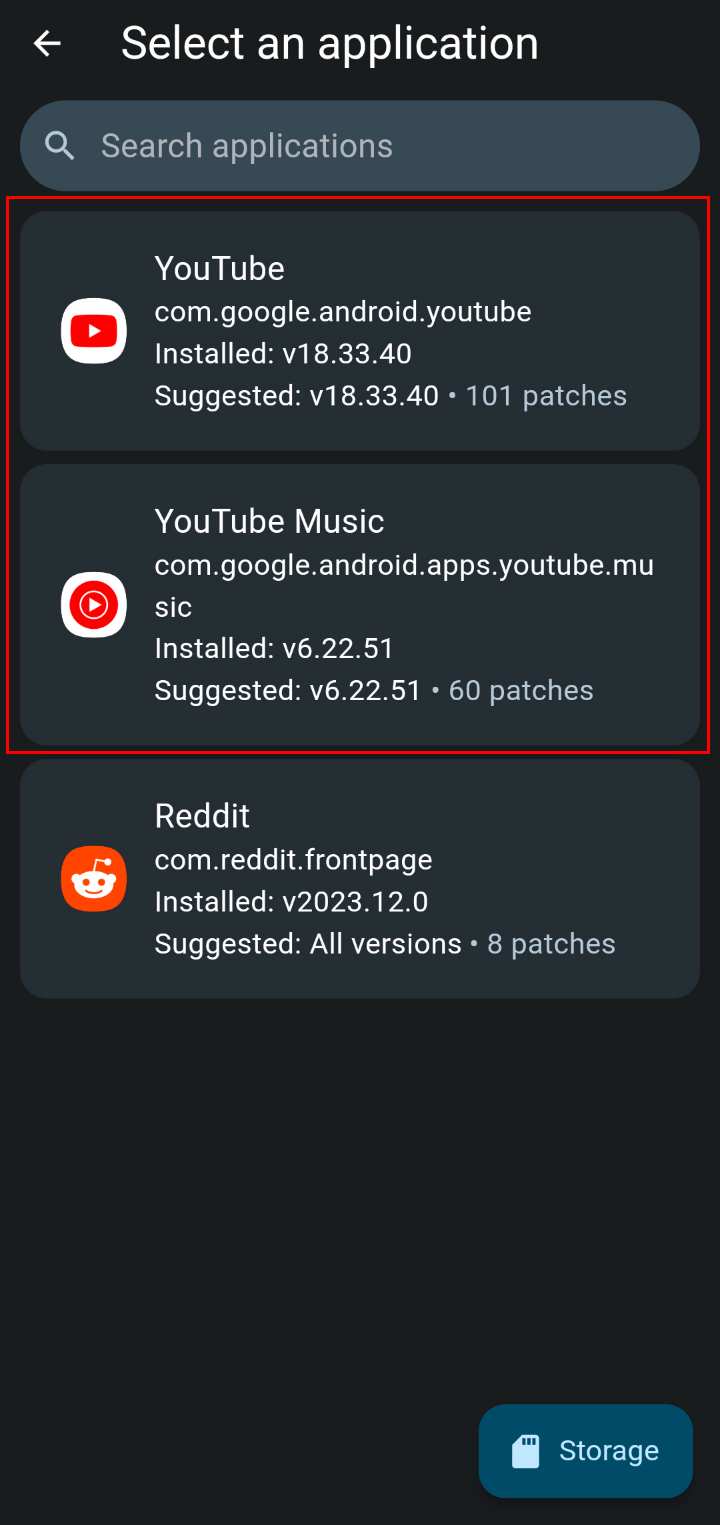
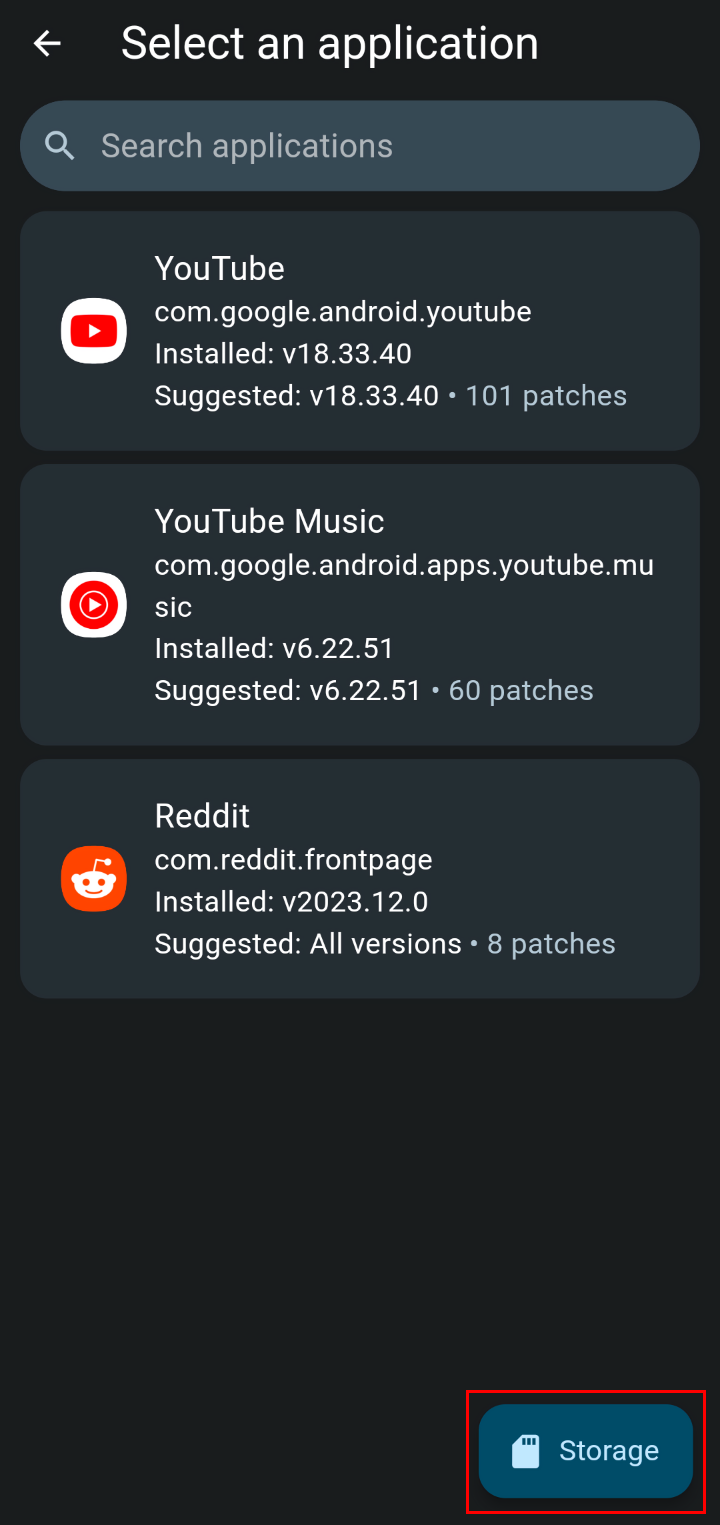
Update RVX Manager docs
(I also reordered the images)

diff --git a/docs/rvx-manager.md b/docs/rvx-manager.md
@@ -1,102 +1,44 @@
-Information
+Requirements
 ==
-### 1. This document is a guide on how to build ReVanced Extended apps using the RVX Manager.
 
-
-### 2. To use the RVX Manager, the following conditions must be met:
 - Your device must use the arm64-v8a architecture.
-- Your device must be running Android 8.0+.
+- Your device must be running Android 8+.
 
 
-
-Common
+Using RVX Manager
 ==
-### 0. If you are preparing to install in **ROOT environment**, follow the method below
-- remove all YouTube / YT Music related modules
-- remove directories: `/data/adb/service.d`, `/data/adb/post-fs-data.d`, `/data/adb/revanced`
-- reboot device
 
-
-### 1. Check the [README.md](https://github.com/inotia00/revanced-patches/tree/revanced-extended#-json-format) of revanced-patches for supported versions
-
-![support_version_youtube](https://github.com/inotia00/revanced-documentation/blob/main/images/compatible_packages_youtube.png)
-
-→ YouTube
-
-![support_version_music](https://github.com/inotia00/revanced-documentation/blob/main/images/compatible_packages_youtube_music.png)
-
-→ YouTube Music
-
-![support_version_reddit](https://github.com/inotia00/revanced-documentation/blob/main/images/compatible_packages_reddit.png)
-
-→ Reddit
-
-### 2. Download the supported version of YouTube / YouTube Music from APKMirror and **_install it on your device._**
-
-![APKMIRROR](https://github.com/inotia00/revanced-documentation/blob/main/images/apkmirror_youtube.png)
-
-※ You must download the `nodpi` variant, and the architecture must be compatible with the device you plan to install the patched APK on.
+1. Follow the steps on [this page](https://github.com/inotia00/revanced-documentation/blob/main/docs/supplying-an-apk.md) to supply and prepare an APK to patch.
 
 
-### 2-1. When you try to build YouTube/YouTube Music
+2. Download [RVX Manager](https://github.com/inotia00/revanced-manager/releases/latest) from GitHub and install it on your device.
 
-Install the APK downloaded from APKMirror on your device.
 
-### 2-1. When you try to build Reddit
-
-Do not install APK downloaded from APKMirror on your device.
-
-### 3. Download RVX Manager from GitHub and install it on your device.
-
-[Download RVX Manager](https://github.com/inotia00/revanced-manager/releases/latest)
-
-### 4. Launch RVX Manager, click `Patcher` and then `Select an application`.
+3. Launch RVX Manager, click `Patcher` and then `Select an application`.
 
 ![1](https://github.com/inotia00/revanced-documentation/blob/main/images/rvx_manager_1.png)
 
 
-### 4-1. If you want to build YouTube(ROOT) or YouTube Music(ROOT)
+4. (Non-ROOT installations): Click the `Storage` button at the bottom right and select the APK downloaded from APKMirror.
 
-![2-1](https://github.com/inotia00/revanced-documentation/blob/main/images/rvx_manager_2.png)
+![2](https://github.com/inotia00/revanced-documentation/blob/main/images/rvx_manager_2.png)
 
-If you are building YouTube or YouTube Music in a ROOT environment, click the card for the application you installed.
+4. (ROOT installations): Click the card for the application you installed.
 
-### 4-2. In other cases
-
-![2-2](https://github.com/inotia00/revanced-documentation/blob/main/images/rvx_manager_3.png)
-
-If you want to build Reddit, or YouTube(NON-ROOT) or YouTube Music(NON-ROOT),
-Click the 'Storage' button at the bottom right and select the APK downloaded from APKMirror.
+![3](https://github.com/inotia00/revanced-documentation/blob/main/images/rvx_manager_3.png)
 
 
-### 5. Click `Selected patches` and include or exclude the patches you want
+5. Click `Selected patches` and include or exclude the patches you want.
 
-![5](https://github.com/inotia00/revanced-documentation/blob/main/images/rvx_manager_4.png)
+![4](https://github.com/inotia00/revanced-documentation/blob/main/images/rvx_manager_4.png)
 
-- If you don't know what to decide, just click the `Default` button
+- Read [this document](https://github.com/inotia00/revanced-documentation/blob/main/docs/information-about-patches.md) for information on patches you may want to include or exclude. Otherwise, just click the `Default` button.
 
-- When selected, click the `Done` button, and then the `Patch` button
+> For ROOT YouTube / YouTube Music installations, the `GmsCore support` patch must be excluded. For non-ROOT installation, the patch must be included.
 
-
-※ Read [this document](https://github.com/inotia00/revanced-documentation/wiki/Options-Information-about-the-patch) for a list of patches you can include or exclude.
-
-※ Read [this document](https://github.com/ReVanced-Extended-Community/Patches-Documentation) to see a screenshot of each patch.
+- When satisfied with your patch selection, click the `Done` button, and then the `Patch` button. 
 
 
-NON-ROOT environment
-==
-When patching, **include** the following patches:
+6. Install the patched APK.
 
-- **`GmsCore support`**
-
-
-ROOT environment
-==
-When patching, **exclude** the following patches:
-
-- **`GmsCore support`**
-
-
-I recommend installing the [Detach Magisk module](https://forum.xda-developers.com/t/module-detach3-detach-market-links.3447494/) after patching.
-
-※ [Detach Magisk module](https://forum.xda-developers.com/t/module-detach3-detach-market-links.3447494/) prevents automatic updates by Google Playstore. (Prevent crashes from occurring in the ROOT environment)
+> For ROOT installations, I recommend also installing the [Detach Magisk module](https://forum.xda-developers.com/t/module-detach3-detach-market-links.3447494/). It prevents automatic updates from Google Playstore, which prevents crashes from occurring in the ROOT environment.
